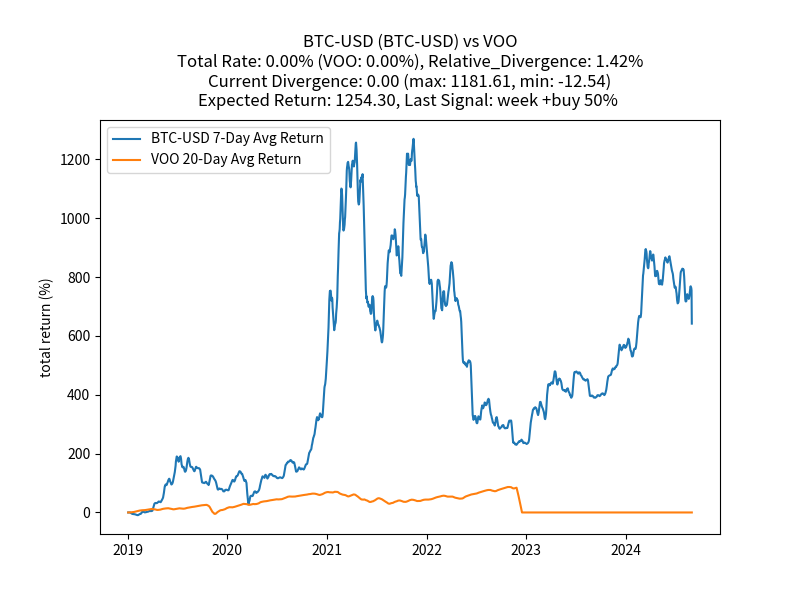
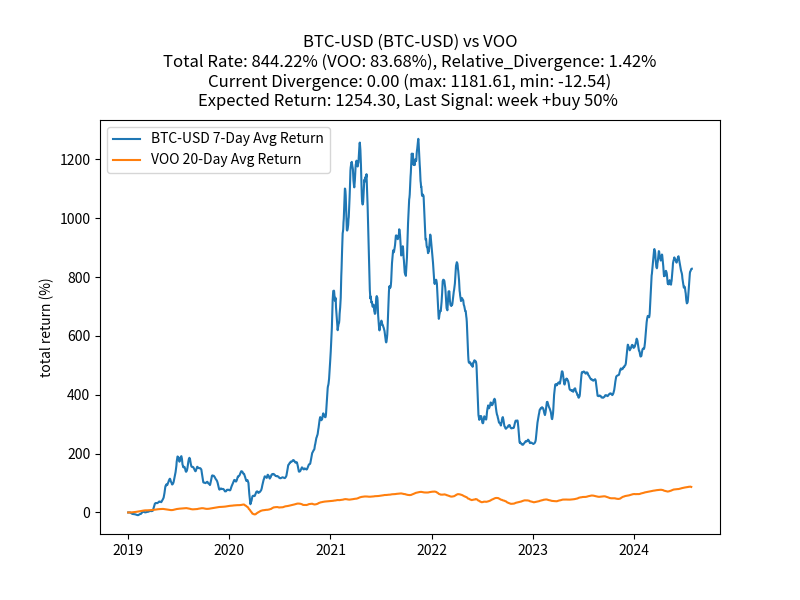
Auto-commit moved files

diff --git a/my-flask-app/Results_plot.py b/my-flask-app/Results_plot.py
@@ -73,8 +73,9 @@ async def plot_comparison_results(ticker, start_date, end_date):
 
     # 전체 데이터를 로드하여 플라스크 서버에서 그래프를 그립니다.
     full_path1 = f"{GITHUB_RAW_BASE_URL}/result_VOO_{ticker}.csv"
+    full_path2 = f"{GITHUB_RAW_BASE_URL}/result_VOO_VOO.csv"
     df1_graph = pd.read_csv(full_path1, parse_dates=['Date'], index_col='Date')
-    df2_graph = pd.read_csv(full_path1, parse_dates=['Date'], index_col='Date')
+    df2_graph = pd.read_csv(full_path2, parse_dates=['Date'], index_col='Date')
 
     # 간략화된 데이터를 로드하여 챗GPT에서 그래프를 그릴 수 있게 합니다.
     simplified_df_path1 = f"{GITHUB_RAW_BASE_URL}/result_{ticker}.csv"
@@ -85,9 +86,9 @@ async def plot_comparison_results(ticker, start_date, end_date):
         raise
 
     # 중간 데이터 확인
-    print("=== df1 (Simplified) ===")
-    print(df1.head())
-    print(df1.describe())
+    # print("=== df1 (Simplified) ===")
+    # print(df1.head())
+    # print(df1.describe())
 
     # 날짜 필터링 및 데이터 준비
     if start_date is None:
@@ -99,7 +100,7 @@ async def plot_comparison_results(ticker, start_date, end_date):
     df2_graph = df2_graph.loc[start_date:end_date]
 
     df1_graph['rate_7d_avg'] = df1_graph['rate'].rolling('7D').mean()
-    df2_graph['rate_20d_avg'] = df2_graph['rate_vs'].rolling('20D').mean()
+    df2_graph['rate_20d_avg'] = df2_graph['rate'].rolling('20D').mean() # VOO
 
     ax2.plot(df1_graph.index, df1_graph['rate_7d_avg'], label=f'{ticker} 7-Day Avg Return')
     ax2.plot(df2_graph.index, df2_graph['rate_20d_avg'], label=f'{stock2} 20-Day Avg Return')
@@ -107,7 +108,7 @@ async def plot_comparison_results(ticker, start_date, end_date):
     plt.ylabel('total return (%)')
     plt.legend(loc='upper left')
 
-    voo_rate = df2_graph['rate_vs'].iloc[-1] if not df2_graph.empty else 0
+    voo_rate = df2_graph['rate'].iloc[-1] if not df2_graph.empty else 0 # VOO의 최종 수익률
     max_divergence = df1['Divergence'].max()
     min_divergence = df1['Divergence'].min()
     current_divergence = df1['Divergence'].iloc[-1]
@@ -166,7 +167,7 @@ async def plot_comparison_results(ticker, start_date, end_date):
 if __name__ == "__main__":
     print("Starting test for plotting results.")
     ticker = "BTC-USD"
-    start_date = "2024-01-02"
+    start_date = "2019-01-02"
     end_date = "2024-07-28"
     print(f"Plotting results for {ticker} from {start_date} to {end_date}")
 
